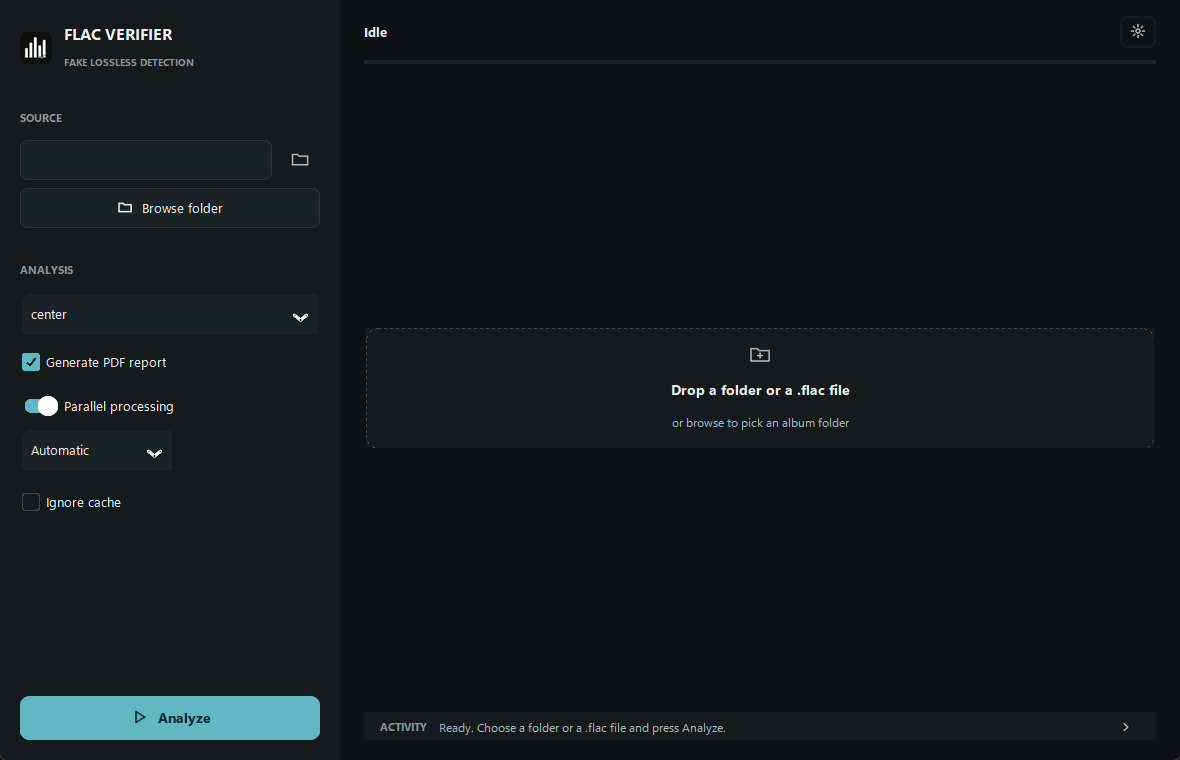
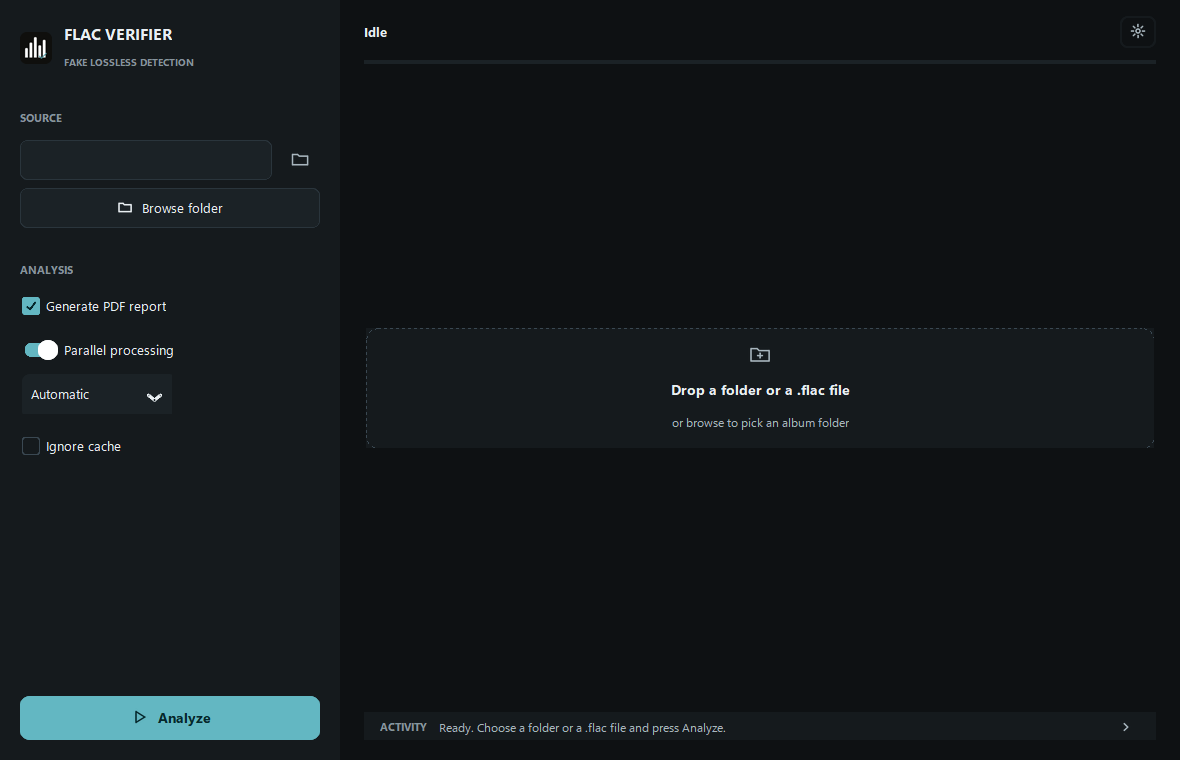
docs: organize guides under docs/ and add batch inspector and PDF screenshots

diff --git a/tests/benchmark_validacion.py b/tests/benchmark_validacion.py
@@ -832,7 +832,7 @@ def _detailed_validation_doc(section, rows):
     ).hexdigest()
 
     lines = [
-        f"# FLAC VERIFIER {motor_flac.ENGINE_VERSION} (v2.9.7) — Validation Report (2026-11-14)",
+        f"# FLAC VERIFIER {motor_flac.ENGINE_VERSION} (v2.9.8) — Validation Report (2026-11-15)",
         "",
         section,
         "",
@@ -918,10 +918,10 @@ def main():
              acoustic.get("veredicto"), acoustic.get("coherencia_album")))
 
     section = _section(rows, tp, tn, fp, fn, sens, spec, ic_sens, ic_spec, coherence_ok)
-    with open(os.path.join(ROOT, "VALIDATION.md"), "w", encoding="utf-8", newline="\n") as f:
+    with open(os.path.join(ROOT, "docs", "VALIDATION.md"), "w", encoding="utf-8", newline="\n") as f:
         f.write(_detailed_validation_doc(section, rows))
     update_document(os.path.join(ROOT, "README.md"), section)
-    update_document(os.path.join(ROOT, "COMPARISON.md"), section)
+    update_document(os.path.join(ROOT, "docs", "COMPARISON.md"), section)
 
     if sens < THRESHOLD or spec < THRESHOLD or not coherence_ok:
         print("FAILED: metrics below 95% or album coherence did not elevate the track")

diff --git a/docs/COMPARISON.md b/docs/COMPARISON.md
@@ -3,8 +3,8 @@
 Both **FLAC VERIFIER** and **[FLAC Detective](https://github.com/Guillain-RDCDE/FLAC_Detective)**
 answer the same question — *is this lossless file genuinely lossless, or a
 lossy transcode / inflated container in disguise?* — from two different
-engineering philosophies. This page compares **FLAC VERIFIER `v2.9.7`** (`engine
-13.7`) and **FLAC Detective `v2.6.0`**, with the exact commands used to obtain
+engineering philosophies. This page compares **FLAC VERIFIER `v2.9.8`** (`engine
+14.2`) and **FLAC Detective `v2.6.0`**, with the exact commands used to obtain
 every figure, so you can choose the one that fits your workflow (or use both).
 
 - **FLAC Detective** is a Python package, CLI and library scanner meant to be
@@ -23,7 +23,7 @@ every figure, so you can choose the one that fits your workflow (or use both).
 
 ## Side by side
 
-| Dimension | FLAC Detective (`v2.6.0`) | FLAC VERIFIER (`v2.9.7`, engine `13.7`) |
+| Dimension | FLAC Detective (`v2.6.0`) | FLAC VERIFIER (`v2.9.8`, engine `14.2`) |
 |---|---|---|
 | **Primary shape** | Python library + CLI + `beets` plugin + optional PySide6 GUI | Standalone Windows desktop app (`FLAC_Verifier.exe` + `flac_motor.exe`), interactive CLI & NDJSON engine |
 | **Installation** | `pip install flac-detective` (`[gui]`, `[ml]`, `[beets]`), Docker (`amd64`/`arm64`), built-in `--update` | Portable Windows ZIP (extract and double-click `FLAC_Verifier.exe`; no Python required) or `pip install -r requirements.txt` |
@@ -34,11 +34,11 @@ every figure, so you can choose the one that fits your workflow (or use both).
 | **24-bit & Hi-Res upscale forensics** | Separate `hires_verdict` axis (`GENUINE_HIRES`, `UPSAMPLED`, `PADDED_DEPTH`): trailing-zero bit check across 8 windows + Welch cliff at `22.05/24/44.1/48 kHz` above a `-70 dB` void | Integrated into the forensic model: full-stream modulo-256 LSB8 & 32-bit audit (`es_padded_16_en_24`, `es_16bit_dither_en_24` for $\pm 1\dots 3\text{ LSB}_{24}$ micro-dither, `es_24bit_escalado_en_peine` gain comb, DoP markers), `22.05/24.0 kHz` Nyquist brickwall, `23–29 kHz` aliasing mirror, DSD64/Scarlet/DSD128 ultrasonic ramp recognition, and smooth vintage/analogue roll-off protection (`rolloff_banda_limitada_genuina`) |
 | **Album-level context** | Per-file independent evaluation | Album-level master coherence (`coherencia_album`) across the batch, plus natural numeric track ordering (`1, 2, …, 10, …, 100`) |
 | **Verdict model** | Two axes: transcode (`AUTHENTIC` / `WARNING` / `SUSPICIOUS` / `FAKE_CERTAIN`, 0–150 pts, conviction requires 2 evidence families) + `hires_verdict` | Single unified verdict (`GENUINE LOSSLESS` / `PROBABLY LOSSLESS` / `SUSPICIOUS` / `PROBABLE UPSCALE` / `indeterminate`), positive evidence minus confirmed defects; `PROBABLE UPSCALE` requires multi-family corroboration (`corroboracion_multifamilia`) or a deterministic filterbank/cutoff/bit-depth proof |
-| **Reports** | Text, CSV, JSON and self-contained HTML triage report with spectrum curves | Per-album PDF report (`flac_verifier_report.pdf`: executive cover, one page per song with embedded Pillow spectrogram and detected issues, overall summary table) + NDJSON stream |
+| **Reports** | Text, CSV, JSON and self-contained HTML triage report with spectrum curves | Per-album PDF report (`flac_verifier_report.pdf`: executive cover, one page per song with embedded Pillow spectrogram and detected issues or technical notes, overall summary table) + NDJSON stream |
 | **Parallelism & caching** | Process pool (`cli/pool.py`) and in-run audio/window cache | Process pool (up to 8 workers) + persistent on-disk per-track JSON cache keyed by size, `mtime_ns`, `STREAMINFO MD5`, `ENGINE_VERSION` and render fingerprint |
 | **Codebase size** | 89 Python files, 18,873 lines in `src/` | 10 application modules (8,780 lines), or 12 modules (9,580 lines) including build/verification scripts |
-| **Automated tests** | 772 test functions across 82 files (`pytest`) | 357 test functions across 13 files (`unittest`, zero external audio files) + 260-track real-encoder benchmark + 12-check frozen `.exe` gate |
-| **Version & commit checked** | `v2.6.0` (`52c51a5`, 2026-11-02) | `v2.9.7` (`ENGINE_VERSION = "14.0"`, 2026-11-14) |
+| **Automated tests** | 772 test functions across 82 files (`pytest`) | 358 test functions across 13 files (`unittest`, zero external audio files) + 260-track real-encoder benchmark + 12-check frozen `.exe` gate |
+| **Version & commit checked** | `v2.6.0` (`52c51a5`, 2026-11-02) | `v2.9.8` (`ENGINE_VERSION = "14.2"`, 2026-11-15) |
 | **Licence** | MIT | MIT |
 
 ---
@@ -139,7 +139,7 @@ Both projects are MIT licensed.
 <!-- BENCHMARK:START -->
 ## Validation benchmark (real `ffmpeg` codecs + adversarial DSP, n = 260)
 
-Generated by `tests/benchmark_validacion.py` (fixed seed `2026`, engine `14.1`):
+Generated by `tests/benchmark_validacion.py` (fixed seed `2026`, engine `14.2`):
 - **110 authentic controls** across 11 families: CD 16/44.1, Studio 24/48, Hi-Res analogue 24/96, Hi-Res ultrasonic 24/192, DSD64 24/88.2, DSD128 24/192, Acoustic 18 kHz, Solo low-centroid (<15 kHz), Vintage 1950s archival tape (<14 kHz), Vinyl / Cassette / Dense polyphonic synth transfers, and Stationary electronic synth drones & genuine 32-bit `PCM_32` masters.
 - **150 fake & adversarial tracks** across 21 families: MP3 (`libmp3lame` 128k / V0 / 320k fullband `-cutoff 22050`, `libshine` 320k), MP2 384k, AAC-LC (128k / 320k fullband `-cutoff 22000`, MediaFoundation 192k), Vorbis (`-q4`, `-q9` 320k fullband, plus 2 unconstrained `-q10` ~500k boundary probes), Opus (96k / 256k fullband `CELT-960`), WMAv2 192k, Seamless HE-AAC QMF SBR (0 dB notch at 44.1 & 96 kHz), Musepack SV7/SV8 `PQMF-32`, Vintage 1950s->MP3 transcodes, Sinc/Aliasing upscales, 24-bit zero-pad / gain-comb / boundary micro-dither, and MPEG-4 AAC `KBD-1024` asymmetric stereo & 16-in-32 container bloat.
 

diff --git a/docs/DESIGN.md b/docs/DESIGN.md
@@ -201,14 +201,14 @@ main area flexible; activity log collapsible at the bottom of the main area.
 │ [ Browse ]       │  │ File        Verdict      Score  Depth  Rate │ │
 │                  │  │ 01.flac     ● OK            92   16/44.1    │ │
 │ ANALYSIS         │  │ 02.flac     ● OK?           78   24/96      │ │
-│ [ Spectral mode ]│  │ 03.flac     ● SUSPICIOUS    41   16/44.1    │ │
-│ [ Seconds  15  ] │  └─────────────────────────────────────────────┘ │
-│ [x] PDF report   │                                                  │
-│ [x] Parallel    │  Activity                                    [⌃]  │
-│ [ Workers   8  ] │  ┌─────────────────────────────────────────────┐ │
-│ [x] Ignore cache │  │ 12:04:11  Analyzing 03.flac…                │ │
+│ [x] PDF report   │  │ 03.flac     ● SUSPICIOUS    41   16/44.1    │ │
+│ [x] Parallel     │  └─────────────────────────────────────────────┘ │
+│ [ Workers   8  ] │                                                  │
+│ [x] Ignore cache │  Activity                                    [⌃]  │
+│                  │  ┌─────────────────────────────────────────────┐ │
+│ [   Analyze    ] │  │ 12:04:11  Analyzing 03.flac…                │ │
 │                  │  └─────────────────────────────────────────────┘ │
-│ [   Analyze    ] │                                                  │
+│                  │                                                  │
 └──────────────────┴─────────────────────────────────────────────────┘
 ```
 

diff --git a/docs/REFERENCE.md b/docs/REFERENCE.md
@@ -83,6 +83,7 @@ with `error` and the process continues until it emits `fin`.
            "sbr_qmf_z": 0.0, "espectrograma": null },
   "score": 0.7, "veredicto": "PROBABLY LOSSLESS",
   "problemas": ["…"],
+  "notes": ["…"],
   "evidencias_forenses": ["Spectral ceiling 20.0 kHz (91% of Nyquist)",
                           "STREAMINFO MD5 verified (match)"]
 }
@@ -225,8 +226,8 @@ With `--pdf` (or by checking *Generate PDF report* in the GUI),
 
 | Page | Content |
 |---|---|
-| **Cover** | Title, album path, timestamp, spectral mode and **executive summary** (verdict counts and percentages) |
-| **One per song** | File name, verdict chip with score, technical data table (format, duration, size, MD5 integrity, clipping, dynamic range, LSB utilisation, spectral ceiling, cut-off, ratio, variance, stereo separation), detected issues and embedded spectrogram |
+| **Cover** | Title, album path, timestamp and **executive summary** (verdict counts and percentages) |
+| **One per song** | File name, verdict chip with score, technical data table (format, duration, size, MD5 integrity, clipping, dynamic range, LSB utilisation, spectral ceiling, cut-off, ratio, variance, stereo separation), detected issues (or technical notes when clean) and embedded spectrogram |
 | **Final** | Overall summary table with every track in natural numeric order |
 
 The spectrogram height is fitted dynamically (34–62 mm) so a track's card never
@@ -280,7 +281,7 @@ all three fingerprints match:
 | Key component | Fields checked |
 |---|---|
 | File identity | Size + modification time (`mtime_ns`) + **STREAMINFO MD5** |
-| Analysis parameters | `ENGINE_VERSION` (`"14.1"`), spectral mode and seconds |
+| Analysis parameters | `ENGINE_VERSION` (`"14.2"`), analysis window parameters |
 | Render fingerprint | `render_fingerprint()` and on-disk PNG existence |
 
 ---

diff --git a/docs/VALIDATION.md b/docs/VALIDATION.md
@@ -1,9 +1,9 @@
-# FLAC VERIFIER 14.1 (v2.9.7) — Validation Report (2026-11-14)
+# FLAC VERIFIER 14.2 (v2.9.8) — Validation Report (2026-11-15)
 
 <!-- BENCHMARK:START -->
 ## Validation benchmark (real `ffmpeg` codecs + adversarial DSP, n = 260)
 
-Generated by `tests/benchmark_validacion.py` (fixed seed `2026`, engine `14.1`):
+Generated by `tests/benchmark_validacion.py` (fixed seed `2026`, engine `14.2`):
 - **110 authentic controls** across 11 families: CD 16/44.1, Studio 24/48, Hi-Res analogue 24/96, Hi-Res ultrasonic 24/192, DSD64 24/88.2, DSD128 24/192, Acoustic 18 kHz, Solo low-centroid (<15 kHz), Vintage 1950s archival tape (<14 kHz), Vinyl / Cassette / Dense polyphonic synth transfers, and Stationary electronic synth drones & genuine 32-bit `PCM_32` masters.
 - **150 fake & adversarial tracks** across 21 families: MP3 (`libmp3lame` 128k / V0 / 320k fullband `-cutoff 22050`, `libshine` 320k), MP2 384k, AAC-LC (128k / 320k fullband `-cutoff 22000`, MediaFoundation 192k), Vorbis (`-q4`, `-q9` 320k fullband, plus 2 unconstrained `-q10` ~500k boundary probes), Opus (96k / 256k fullband `CELT-960`), WMAv2 192k, Seamless HE-AAC QMF SBR (0 dB notch at 44.1 & 96 kHz), Musepack SV7/SV8 `PQMF-32`, Vintage 1950s->MP3 transcodes, Sinc/Aliasing upscales, 24-bit zero-pad / gain-comb / boundary micro-dither, and MPEG-4 AAC `KBD-1024` asymmetric stereo & 16-in-32 container bloat.
 

diff --git a/AGENTS.md b/AGENTS.md
@@ -40,7 +40,7 @@ time. Python is 3.10.11 in `.venv`; CI also runs 3.12 on Ubuntu and Windows.
    the CLI, the GUI or the PDF. `tests/test_estructura.py` catches it.
 2. `multiprocessing.freeze_support()` stays the **first statement** of the `__main__`
    block in `main.py` (`tests/test_empaquetado.py`).
-3. **Raise `ENGINE_VERSION`** (currently `"14.1"` in `motor_flac.py`) whenever any
+3. **Raise `ENGINE_VERSION`** (currently `"14.2"` in `motor_flac.py`) whenever any
    analysis calculation changes: it is what invalidates existing caches.
 4. No new runtime dependencies without discussing it. `numpy`, `scipy`, `soundfile`,
    `mutagen`, `pillow` are required; `reportlab`, `customtkinter`, `tkinterdnd2` must stay
@@ -80,5 +80,5 @@ time. Python is 3.10.11 in `.venv`; CI also runs 3.12 on Ubuntu and Windows.
 
 ## Known doc drift (trust the code, not the doc)
 
-- The suite is **358 tests** and `ENGINE_VERSION = "14.1"`; `README.md` and
+- The suite is **358 tests** and `ENGINE_VERSION = "14.2"`; `README.md` and
   `CONTRIBUTING.md` agree. Keep the number you touch in sync.

diff --git a/CONTRIBUTING.md b/CONTRIBUTING.md
@@ -116,7 +116,7 @@ Two more invariants worth knowing before you touch anything:
   `__main__` block of `main.py`. `tests/test_empaquetado.py` checks it.
 - `ENGINE_VERSION` in `motor_flac.py` must be raised whenever any analysis
   calculation changes: it is what invalidates the caches written by earlier
-  versions. It currently reads `ENGINE_VERSION = "14.1"`.
+  versions. It currently reads `ENGINE_VERSION = "14.2"`.
 
 ---
 
@@ -247,7 +247,7 @@ it changed.
 
 ## What to check before opening a PR
 
-1. `python -m unittest discover -s tests` passes. The suite is 338 tests; if the
+1. `python -m unittest discover -s tests` passes. The suite is 358 tests; if the
    count changed, say so in the PR description and update the README.
 2. `python -m unittest tests.test_idioma` passes: no Spanish text has leaked into
    anything the user sees.
